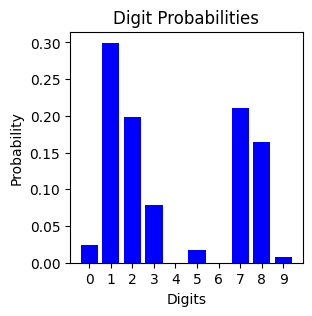
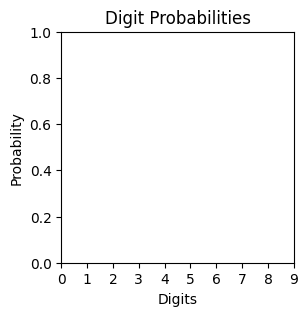
修复了utils中def show_combined_output(img, pred):在pred为空时报错的bug

diff --git a/utils.py b/utils.py
@@ -206,10 +206,16 @@ def show_combined_output(img, pred):
     img_surf = pygame.transform.rotate(img_surf, -270)
     img_surf = pygame.transform.flip(img_surf, 0, 1)
 
-    # 生成 Matplotlib 柱状图
+    # 生成 Matplotlib 图表
     fig, ax = plt.subplots(figsize=(3, 3))
     x = np.arange(10)  # 0-9 数字
-    ax.bar(x, pred[0,0], color='blue')  # 画柱状图
+
+    # 检查 pred 是否为空，如果为空则不绘制柱状图
+    if pred.size > 0:
+        ax.bar(x, pred[0, 0], color='blue')  # 画柱状图
+    else:
+        print("Prediction array is empty, skipping chart.")
+
     ax.set_xticks(x)
     ax.set_xlabel("Digits")
     ax.set_ylabel("Probability")
@@ -230,10 +236,11 @@ def show_combined_output(img, pred):
         print(f"Error: Failed to load chart image from ASSETS/Fig.png: {e}")
 
     # 显示处理后的图像在 (width+2, 0)
-    screen.blit(img_surf, (width+2, 0))
+    screen.blit(img_surf, (width + 2, 0))
 
     # **强制更新这两个区域**
-    pygame.display.update([(width+2, 0, width, height), (width * 2 + 2, 0, width, height)])
+    pygame.display.update([(width + 2, 0, width, height), (width * 2 + 2, 0, width, height)])
+
 
 
 
